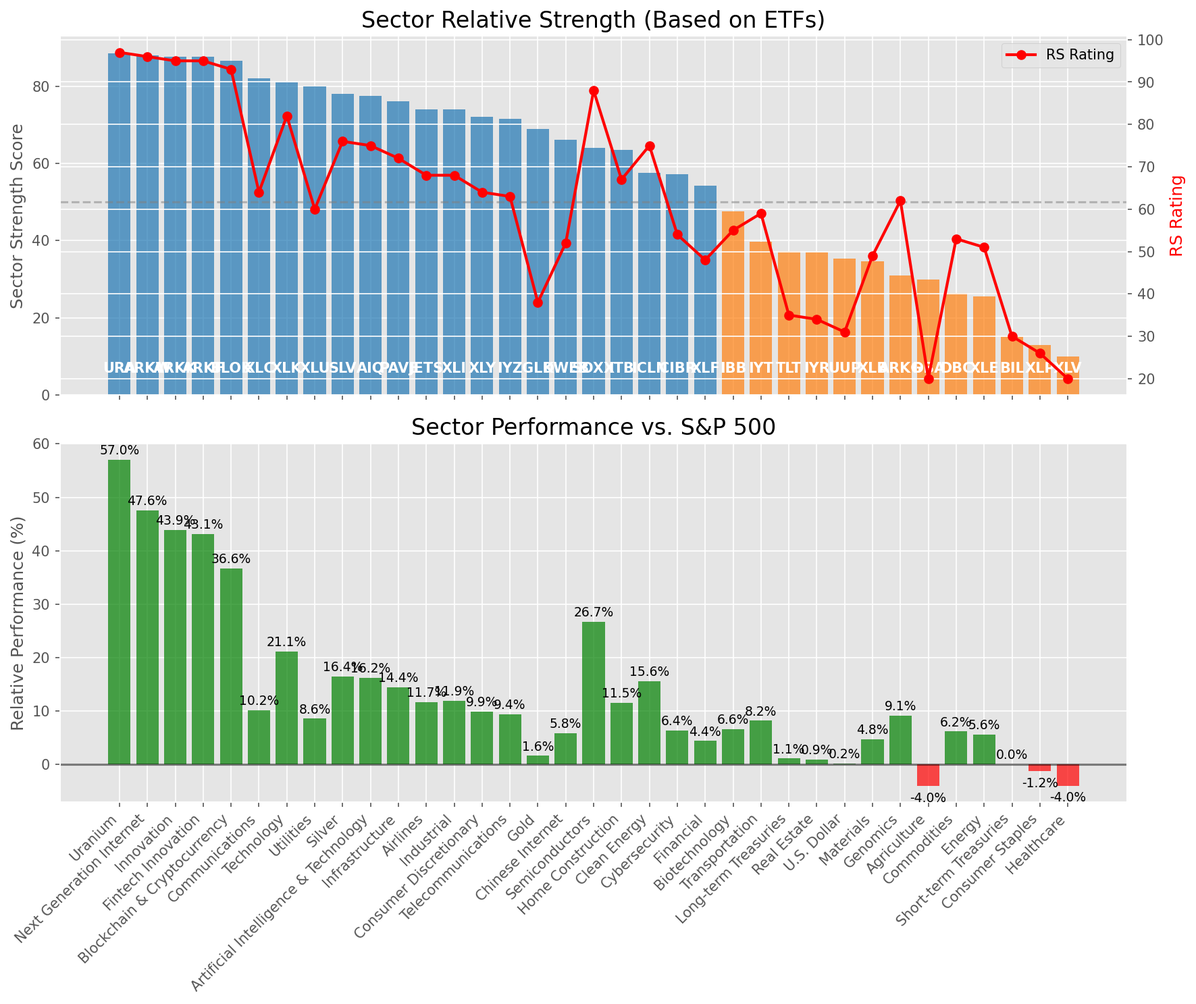
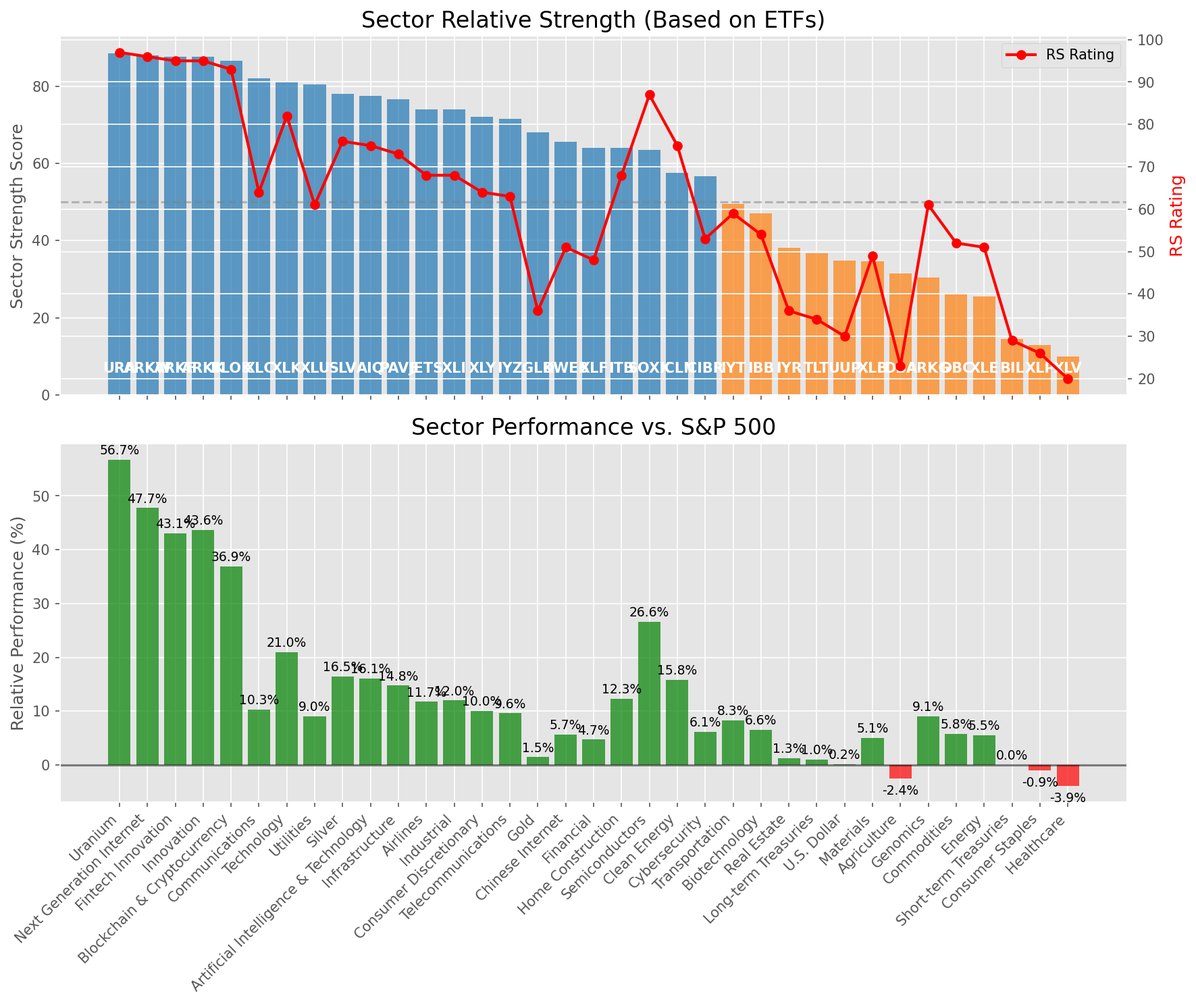
Add market report for 2025-08-05

diff --git a/oneil_relative_strength_report_2025-08-05.md b/oneil_relative_strength_report_2025-08-05.md
@@ -9,11 +9,11 @@
 | Metric | Value |
 |--------|-------|
 | **Market Valuation** | **Overvalued** |
-| **Current Ratio** | 10.20 |
+| **Current Ratio** | 10.21 |
 | **Historical Mean** | 9.60 |
 | **Standard Deviation** | 0.54 |
 | **Z-Score (StdDev from Mean)** | 1.17 |
-| **Total Market Cap** | $309.40 trillion |
+| **Total Market Cap** | $309.72 trillion |
 | **GDP** | $30.33 trillion |
 
 ## **Market Insights**
@@ -49,41 +49,41 @@ Based on William O'Neil's Relative Strength Methodology
 
 | ETF | Strength | RS Rating | Performance | Above Key MAs | Trend | Sector |
 |-----|----------|-----------|-------------|--------------|-------|--------|
-| [URA](https://www.tradingview.com/chart/?symbol=URA) | 88.6 | 97.0 | 57.04% | 10d ✗, 50d ✓, 200d ✓ | ↗ | Uranium |
-| [ARKW](https://www.tradingview.com/chart/?symbol=ARKW) | 88.1 | 96.0 | 47.59% | 10d ✗, 50d ✓, 200d ✓ | ↗ | Next Generation Internet |
-| [ARKK](https://www.tradingview.com/chart/?symbol=ARKK) | 87.6 | 95.0 | 43.89% | 10d ✗, 50d ✓, 200d ✓ | ↗ | Innovation |
-| [ARKF](https://www.tradingview.com/chart/?symbol=ARKF) | 87.6 | 95.0 | 43.08% | 10d ✗, 50d ✓, 200d ✓ | ↗ | Fintech Innovation |
-| [BLOK](https://www.tradingview.com/chart/?symbol=BLOK) | 86.6 | 93.0 | 36.65% | 10d ✗, 50d ✓, 200d ✓ | ↗ | Blockchain & Cryptocurrency |
-| [XLC](https://www.tradingview.com/chart/?symbol=XLC) | 82.0 | 64.0 | 10.17% | 10d ✓, 50d ✓, 200d ✓ | ↗ | Communications |
-| [XLK](https://www.tradingview.com/chart/?symbol=XLK) | 81.1 | 82.0 | 21.09% | 10d ✗, 50d ✓, 200d ✓ | ↗ | Technology |
-| [XLU](https://www.tradingview.com/chart/?symbol=XLU) | 80.0 | 60.0 | 8.55% | 10d ✓, 50d ✓, 200d ✓ | ↗ | Utilities |
-| [SLV](https://www.tradingview.com/chart/?symbol=SLV) | 78.1 | 76.0 | 16.44% | 10d ✗, 50d ✓, 200d ✓ | ↗ | Silver |
-| [AIQ](https://www.tradingview.com/chart/?symbol=AIQ) | 77.6 | 75.0 | 16.19% | 10d ✗, 50d ✓, 200d ✓ | ↗ | Artificial Intelligence & Technology |
-| [PAVE](https://www.tradingview.com/chart/?symbol=PAVE) | 76.1 | 72.0 | 14.41% | 10d ✗, 50d ✓, 200d ✓ | ↗ | Infrastructure |
-| [JETS](https://www.tradingview.com/chart/?symbol=JETS) | 74.1 | 68.0 | 11.67% | 10d ✗, 50d ✓, 200d ✓ | ↗ | Airlines |
-| [XLI](https://www.tradingview.com/chart/?symbol=XLI) | 74.1 | 68.0 | 11.86% | 10d ✗, 50d ✓, 200d ✓ | ↗ | Industrial |
-| [XLY](https://www.tradingview.com/chart/?symbol=XLY) | 72.1 | 64.0 | 9.94% | 10d ✗, 50d ✓, 200d ✓ | ↗ | Consumer Discretionary |
-| [IYZ](https://www.tradingview.com/chart/?symbol=IYZ) | 71.6 | 63.0 | 9.41% | 10d ✗, 50d ✓, 200d ✓ | ↗ | Telecommunications |
-| [GLD](https://www.tradingview.com/chart/?symbol=GLD) | 69.0 | 38.0 | 1.62% | 10d ✓, 50d ✓, 200d ✓ | ↗ | Gold |
-| [KWEB](https://www.tradingview.com/chart/?symbol=KWEB) | 66.1 | 52.0 | 5.84% | 10d ✗, 50d ✓, 200d ✓ | ↗ | Chinese Internet |
-| [SOXX](https://www.tradingview.com/chart/?symbol=SOXX) | 64.1 | 88.0 | 26.72% | 10d ✗, 50d ✓, 200d ✓ | ↘ | Semiconductors |
-| [ITB](https://www.tradingview.com/chart/?symbol=ITB) | 63.5 | 67.0 | 11.54% | 10d ✓, 50d ✓, 200d ✓ | ↘ | Home Construction |
-| [ICLN](https://www.tradingview.com/chart/?symbol=ICLN) | 57.6 | 75.0 | 15.60% | 10d ✗, 50d ✓, 200d ✓ | ↘ | Clean Energy |
-| [CIBR](https://www.tradingview.com/chart/?symbol=CIBR) | 57.2 | 54.0 | 6.35% | 10d ✗, 50d ✗, 200d ✓ | ↗ | Cybersecurity |
-| [XLF](https://www.tradingview.com/chart/?symbol=XLF) | 54.2 | 48.0 | 4.40% | 10d ✗, 50d ✗, 200d ✓ | ↗ | Financial |
-| [IBB](https://www.tradingview.com/chart/?symbol=IBB) | 47.6 | 55.0 | 6.59% | 10d ✗, 50d ✓, 200d ✓ | ↘ | Biotechnology |
-| [IYT](https://www.tradingview.com/chart/?symbol=IYT) | 39.7 | 59.0 | 8.18% | 10d ✗, 50d ✗, 200d ✓ | ↘ | Transportation |
-| [TLT](https://www.tradingview.com/chart/?symbol=TLT) | 37.3 | 35.0 | 1.10% | 10d ✓, 50d ✓, 200d ✗ | ↘ | Long-term Treasuries |
-| [IYR](https://www.tradingview.com/chart/?symbol=IYR) | 37.1 | 34.0 | 0.87% | 10d ✗, 50d ✓, 200d ✓ | ↘ | Real Estate |
-| [UUP](https://www.tradingview.com/chart/?symbol=UUP) | 35.3 | 31.0 | 0.18% | 10d ✓, 50d ✓, 200d ✗ | ↘ | U.S. Dollar |
-| [XLB](https://www.tradingview.com/chart/?symbol=XLB) | 34.7 | 49.0 | 4.76% | 10d ✗, 50d ✗, 200d ✓ | ↘ | Materials |
-| [ARKG](https://www.tradingview.com/chart/?symbol=ARKG) | 31.0 | 62.0 | 9.12% | 10d ✗, 50d ✗, 200d ✗ | ↘ | Genomics |
-| [DBA](https://www.tradingview.com/chart/?symbol=DBA) | 30.0 | 20.0 | -4.03% | 10d ✗, 50d ✗, 200d ✗ | ↗ | Agriculture |
-| [DBC](https://www.tradingview.com/chart/?symbol=DBC) | 26.5 | 53.0 | 6.15% | 10d ✗, 50d ✗, 200d ✗ | ↘ | Commodities |
-| [XLE](https://www.tradingview.com/chart/?symbol=XLE) | 25.5 | 51.0 | 5.56% | 10d ✗, 50d ✗, 200d ✗ | ↘ | Energy |
-| [BIL](https://www.tradingview.com/chart/?symbol=BIL) | 15.0 | 30.0 | 0.03% | 10d ✗, 50d ✗, 200d ✗ | ↘ | Short-term Treasuries |
-| [XLP](https://www.tradingview.com/chart/?symbol=XLP) | 13.0 | 26.0 | -1.21% | 10d ✗, 50d ✗, 200d ✗ | ↘ | Consumer Staples |
-| [XLV](https://www.tradingview.com/chart/?symbol=XLV) | 10.0 | 20.0 | -3.98% | 10d ✗, 50d ✗, 200d ✗ | ↘ | Healthcare |
+| [URA](https://www.tradingview.com/chart/?symbol=URA) | 88.6 | 97.0 | 56.73% | 10d ✗, 50d ✓, 200d ✓ | ↗ | Uranium |
+| [ARKW](https://www.tradingview.com/chart/?symbol=ARKW) | 88.1 | 96.0 | 47.74% | 10d ✗, 50d ✓, 200d ✓ | ↗ | Next Generation Internet |
+| [ARKF](https://www.tradingview.com/chart/?symbol=ARKF) | 87.6 | 95.0 | 43.06% | 10d ✗, 50d ✓, 200d ✓ | ↗ | Fintech Innovation |
+| [ARKK](https://www.tradingview.com/chart/?symbol=ARKK) | 87.6 | 95.0 | 43.64% | 10d ✗, 50d ✓, 200d ✓ | ↗ | Innovation |
+| [BLOK](https://www.tradingview.com/chart/?symbol=BLOK) | 86.6 | 93.0 | 36.89% | 10d ✗, 50d ✓, 200d ✓ | ↗ | Blockchain & Cryptocurrency |
+| [XLC](https://www.tradingview.com/chart/?symbol=XLC) | 82.0 | 64.0 | 10.32% | 10d ✓, 50d ✓, 200d ✓ | ↗ | Communications |
+| [XLK](https://www.tradingview.com/chart/?symbol=XLK) | 81.1 | 82.0 | 21.01% | 10d ✗, 50d ✓, 200d ✓ | ↗ | Technology |
+| [XLU](https://www.tradingview.com/chart/?symbol=XLU) | 80.5 | 61.0 | 8.99% | 10d ✓, 50d ✓, 200d ✓ | ↗ | Utilities |
+| [SLV](https://www.tradingview.com/chart/?symbol=SLV) | 78.1 | 76.0 | 16.45% | 10d ✗, 50d ✓, 200d ✓ | ↗ | Silver |
+| [AIQ](https://www.tradingview.com/chart/?symbol=AIQ) | 77.6 | 75.0 | 16.12% | 10d ✗, 50d ✓, 200d ✓ | ↗ | Artificial Intelligence & Technology |
+| [PAVE](https://www.tradingview.com/chart/?symbol=PAVE) | 76.6 | 73.0 | 14.75% | 10d ✗, 50d ✓, 200d ✓ | ↗ | Infrastructure |
+| [JETS](https://www.tradingview.com/chart/?symbol=JETS) | 74.1 | 68.0 | 11.74% | 10d ✗, 50d ✓, 200d ✓ | ↗ | Airlines |
+| [XLI](https://www.tradingview.com/chart/?symbol=XLI) | 74.1 | 68.0 | 12.00% | 10d ✗, 50d ✓, 200d ✓ | ↗ | Industrial |
+| [XLY](https://www.tradingview.com/chart/?symbol=XLY) | 72.1 | 64.0 | 10.03% | 10d ✗, 50d ✓, 200d ✓ | ↗ | Consumer Discretionary |
+| [IYZ](https://www.tradingview.com/chart/?symbol=IYZ) | 71.6 | 63.0 | 9.62% | 10d ✗, 50d ✓, 200d ✓ | ↗ | Telecommunications |
+| [GLD](https://www.tradingview.com/chart/?symbol=GLD) | 68.0 | 36.0 | 1.46% | 10d ✓, 50d ✓, 200d ✓ | ↗ | Gold |
+| [KWEB](https://www.tradingview.com/chart/?symbol=KWEB) | 65.6 | 51.0 | 5.66% | 10d ✗, 50d ✓, 200d ✓ | ↗ | Chinese Internet |
+| [XLF](https://www.tradingview.com/chart/?symbol=XLF) | 64.1 | 48.0 | 4.72% | 10d ✗, 50d ✓, 200d ✓ | ↗ | Financial |
+| [ITB](https://www.tradingview.com/chart/?symbol=ITB) | 64.0 | 68.0 | 12.28% | 10d ✓, 50d ✓, 200d ✓ | ↘ | Home Construction |
+| [SOXX](https://www.tradingview.com/chart/?symbol=SOXX) | 63.6 | 87.0 | 26.57% | 10d ✗, 50d ✓, 200d ✓ | ↘ | Semiconductors |
+| [ICLN](https://www.tradingview.com/chart/?symbol=ICLN) | 57.6 | 75.0 | 15.82% | 10d ✗, 50d ✓, 200d ✓ | ↘ | Clean Energy |
+| [CIBR](https://www.tradingview.com/chart/?symbol=CIBR) | 56.7 | 53.0 | 6.13% | 10d ✗, 50d ✗, 200d ✓ | ↗ | Cybersecurity |
+| [IYT](https://www.tradingview.com/chart/?symbol=IYT) | 49.6 | 59.0 | 8.34% | 10d ✗, 50d ✓, 200d ✓ | ↘ | Transportation |
+| [IBB](https://www.tradingview.com/chart/?symbol=IBB) | 47.1 | 54.0 | 6.57% | 10d ✗, 50d ✓, 200d ✓ | ↘ | Biotechnology |
+| [IYR](https://www.tradingview.com/chart/?symbol=IYR) | 38.1 | 36.0 | 1.32% | 10d ✗, 50d ✓, 200d ✓ | ↘ | Real Estate |
+| [TLT](https://www.tradingview.com/chart/?symbol=TLT) | 36.8 | 34.0 | 1.05% | 10d ✓, 50d ✓, 200d ✗ | ↘ | Long-term Treasuries |
+| [UUP](https://www.tradingview.com/chart/?symbol=UUP) | 34.8 | 30.0 | 0.19% | 10d ✓, 50d ✓, 200d ✗ | ↘ | U.S. Dollar |
+| [XLB](https://www.tradingview.com/chart/?symbol=XLB) | 34.7 | 49.0 | 5.09% | 10d ✗, 50d ✗, 200d ✓ | ↘ | Materials |
+| [DBA](https://www.tradingview.com/chart/?symbol=DBA) | 31.5 | 23.0 | -2.44% | 10d ✗, 50d ✗, 200d ✗ | ↗ | Agriculture |
+| [ARKG](https://www.tradingview.com/chart/?symbol=ARKG) | 30.5 | 61.0 | 9.08% | 10d ✗, 50d ✗, 200d ✗ | ↘ | Genomics |
+| [DBC](https://www.tradingview.com/chart/?symbol=DBC) | 26.0 | 52.0 | 5.84% | 10d ✗, 50d ✗, 200d ✗ | ↘ | Commodities |
+| [XLE](https://www.tradingview.com/chart/?symbol=XLE) | 25.5 | 51.0 | 5.49% | 10d ✗, 50d ✗, 200d ✗ | ↘ | Energy |
+| [BIL](https://www.tradingview.com/chart/?symbol=BIL) | 14.5 | 29.0 | 0.03% | 10d ✗, 50d ✗, 200d ✗ | ↘ | Short-term Treasuries |
+| [XLP](https://www.tradingview.com/chart/?symbol=XLP) | 13.0 | 26.0 | -0.94% | 10d ✗, 50d ✗, 200d ✗ | ↘ | Consumer Staples |
+| [XLV](https://www.tradingview.com/chart/?symbol=XLV) | 10.0 | 20.0 | -3.88% | 10d ✗, 50d ✗, 200d ✗ | ↘ | Healthcare |
 
 ### **Sector ETF Performance Interpretation**
 
@@ -98,9 +98,9 @@ This table shows the relative strength metrics for different market sectors base
 
 ### **Current Sector Leadership**
 
-The current market leadership is coming from the following sectors: **Uranium, Next Generation Internet, Innovation**.
+The current market leadership is coming from the following sectors: **Uranium, Next Generation Internet, Fintech Innovation**.
 
-The **Uranium** sector (represented by **URA**) is showing particularly strong relative strength with an RS rating of 97.0 and performance of 57.04% vs. the S&P 500. This sector is trading above its 50-day, 200-day moving average(s). Investors should consider focusing on high RS stocks within these leading sectors for potential outperformance.
+The **Uranium** sector (represented by **URA**) is showing particularly strong relative strength with an RS rating of 97.0 and performance of 56.73% vs. the S&P 500. This sector is trading above its 50-day, 200-day moving average(s). Investors should consider focusing on high RS stocks within these leading sectors for potential outperformance.
 
 ---
 
@@ -110,128 +110,125 @@ The following 54 stocks show exceptional relative strength:
 
 | RS Rating | Buy Score | Current Price | Chart | Name | Ticker |
 |-----------|-----------|---------------|-------|------|--------|
-| 100 | 100 | $193.89 | [Chart](https://www.tradingview.com/chart/?symbol=CLS) | Celestica, Inc. | CLS |
-| 100 | 100 | $150.01 | [Chart](https://www.tradingview.com/chart/?symbol=SEZL) | Sezzle Inc. Common Stock | SEZL |
-| 100 | 100 | $110.24 | [Chart](https://www.tradingview.com/chart/?symbol=CRDO) | Credo Technology Group Holding Ltd Ordinary Shares | CRDO |
-| 100 | 100 | $66.72 | [Chart](https://www.tradingview.com/chart/?symbol=MP) | MP Materials Corp. | MP |
-| 100 | 100 | $104.16 | [Chart](https://www.tradingview.com/chart/?symbol=HOOD) | Robinhood Markets, Inc. Class A Common Stock | HOOD |
-| 100 | 100 | $239.25 | [Chart](https://www.tradingview.com/chart/?symbol=DAVE) | Dave Inc. Class A Common Stock | DAVE |
-| 99 | 100 | $76.06 | [Chart](https://www.tradingview.com/chart/?symbol=LIF) | Life360, Inc. Common Stock | LIF |
-| 99 | 100 | $381.77 | [Chart](https://www.tradingview.com/chart/?symbol=TLN) | Talen Energy Corporation Common Stock | TLN |
-| 99 | 100 | $128.12 | [Chart](https://www.tradingview.com/chart/?symbol=RBLX) | Roblox Corporation | RBLX |
-| 98 | 100 | $206.51 | [Chart](https://www.tradingview.com/chart/?symbol=NET) | Cloudflare, Inc. Class A common stock, par value $0.001 per share | NET |
-| 98 | 100 | $37.66 | [Chart](https://www.tradingview.com/chart/?symbol=NNE) | Nano Nuclear Energy Inc. Common Stock | NNE |
-| 98 | 100 | $651.90 | [Chart](https://www.tradingview.com/chart/?symbol=GEV) | GE Vernova Inc. | GEV |
-| 98 | 100 | $58.90 | [Chart](https://www.tradingview.com/chart/?symbol=KTOS) | Kratos Defense & Security Solutions, Inc. | KTOS |
-| 97 | 100 | $183.92 | [Chart](https://www.tradingview.com/chart/?symbol=COOP) | Mr. Cooper Group Inc. Common Stock | COOP |
-| 96 | 100 | $110.96 | [Chart](https://www.tradingview.com/chart/?symbol=TPR) | Tapestry, Inc. Common Stock | TPR |
-| 96 | 100 | $115.51 | [Chart](https://www.tradingview.com/chart/?symbol=SANM) | Sanmina  Corp | SANM |
-| 96 | 100 | $35.19 | [Chart](https://www.tradingview.com/chart/?symbol=ATRO) | Astronics Corp | ATRO |
-| 95 | 100 | $21.40 | [Chart](https://www.tradingview.com/chart/?symbol=MAG) | MAG Silver Corp. | MAG |
-| 95 | 100 | $105.30 | [Chart](https://www.tradingview.com/chart/?symbol=VRNA) | Verona Pharma plc | VRNA |
-| 95 | 100 | $169.39 | [Chart](https://www.tradingview.com/chart/?symbol=NRG) | NRG Energy, Inc. | NRG |
-| 94 | 100 | $510.88 | [Chart](https://www.tradingview.com/chart/?symbol=CW) | Curtiss-Wright Corp. | CW |
-| 93 | 100 | $88.89 | [Chart](https://www.tradingview.com/chart/?symbol=RYTM) | Rhythm Pharmaceuticals, Inc. Common Stock | RYTM |
-| 93 | 100 | $48.66 | [Chart](https://www.tradingview.com/chart/?symbol=REVG) | REV Group, Inc. | REVG |
-| 93 | 100 | $171.68 | [Chart](https://www.tradingview.com/chart/?symbol=PLTR) | Palantir Technologies Inc. Class A Common Stock | PLTR |
-| 93 | 100 | $851.08 | [Chart](https://www.tradingview.com/chart/?symbol=AXON) | Axon Enterprise, Inc. Common Stock | AXON |
-| 92 | 100 | $108.25 | [Chart](https://www.tradingview.com/chart/?symbol=APH) | Amphenol Corporation | APH |
-| 92 | 100 | $350.71 | [Chart](https://www.tradingview.com/chart/?symbol=CVNA) | Carvana Co. | CVNA |
-| 91 | 100 | $55.94 | [Chart](https://www.tradingview.com/chart/?symbol=AU) | AngloGold Ashanti plc | AU |
-| 91 | 100 | $42.97 | [Chart](https://www.tradingview.com/chart/?symbol=LTM) | LATAM Airlines Group S.A. American Depositary Shares (each representing two thousand (2,000) shares of Common Stock) | LTM |
-| 90 | 100 | $83.83 | [Chart](https://www.tradingview.com/chart/?symbol=GDXU) | MicroSectors Gold Miners 3x Leveraged ETN | GDXU |
-| 90 | 100 | $91.63 | [Chart](https://www.tradingview.com/chart/?symbol=EBAY) | eBay Inc | EBAY |
-| 88 | 100 | $55.90 | [Chart](https://www.tradingview.com/chart/?symbol=BTI) | British American Tobacco p.l.c. American Depositary Shares, American Depositary Shares, each representing one Ordinary Share | BTI |
-| 88 | 100 | $156.92 | [Chart](https://www.tradingview.com/chart/?symbol=VSEC) | VSE Corp | VSEC |
-| 89 | 99 | $52.45 | [Chart](https://www.tradingview.com/chart/?symbol=PTCT) | PTC Therapeutics, Inc. | PTCT |
-| 88 | 99 | $39.44 | [Chart](https://www.tradingview.com/chart/?symbol=ZLAB) | Zai Lab Limited American Depositary Shares | ZLAB |
-| 87 | 99 | $48.03 | [Chart](https://www.tradingview.com/chart/?symbol=BBIO) | BridgeBio Pharma, Inc. Common Stock | BBIO |
-| 86 | 99 | $33.69 | [Chart](https://www.tradingview.com/chart/?symbol=DB) | Deutsche Bank Aktiengesellschaft | DB |
-| 88 | 98 | $384.94 | [Chart](https://www.tradingview.com/chart/?symbol=APP) | Applovin Corporation Class A Common Stock | APP |
-| 88 | 98 | $50.51 | [Chart](https://www.tradingview.com/chart/?symbol=SIL) | Global X Silver Miners ETF (NEW) | SIL |
+| 100 | 100 | $67.14 | [Chart](https://www.tradingview.com/chart/?symbol=MP) | MP Materials Corp. | MP |
+| 100 | 100 | $195.29 | [Chart](https://www.tradingview.com/chart/?symbol=CLS) | Celestica, Inc. | CLS |
+| 100 | 100 | $239.14 | [Chart](https://www.tradingview.com/chart/?symbol=DAVE) | Dave Inc. Class A Common Stock | DAVE |
+| 100 | 100 | $148.74 | [Chart](https://www.tradingview.com/chart/?symbol=SEZL) | Sezzle Inc. Common Stock | SEZL |
+| 100 | 100 | $110.08 | [Chart](https://www.tradingview.com/chart/?symbol=CRDO) | Credo Technology Group Holding Ltd Ordinary Shares | CRDO |
+| 99 | 100 | $381.64 | [Chart](https://www.tradingview.com/chart/?symbol=TLN) | Talen Energy Corporation Common Stock | TLN |
+| 99 | 100 | $126.61 | [Chart](https://www.tradingview.com/chart/?symbol=RBLX) | Roblox Corporation | RBLX |
+| 98 | 100 | $58.75 | [Chart](https://www.tradingview.com/chart/?symbol=KTOS) | Kratos Defense & Security Solutions, Inc. | KTOS |
+| 98 | 100 | $205.72 | [Chart](https://www.tradingview.com/chart/?symbol=NET) | Cloudflare, Inc. Class A common stock, par value $0.001 per share | NET |
+| 98 | 100 | $650.69 | [Chart](https://www.tradingview.com/chart/?symbol=GEV) | GE Vernova Inc. | GEV |
+| 98 | 100 | $37.91 | [Chart](https://www.tradingview.com/chart/?symbol=NNE) | Nano Nuclear Energy Inc. Common Stock | NNE |
+| 97 | 100 | $185.96 | [Chart](https://www.tradingview.com/chart/?symbol=COOP) | Mr. Cooper Group Inc. Common Stock | COOP |
+| 97 | 100 | $111.35 | [Chart](https://www.tradingview.com/chart/?symbol=TPR) | Tapestry, Inc. Common Stock | TPR |
+| 97 | 100 | $157.21 | [Chart](https://www.tradingview.com/chart/?symbol=FUTU) | Futu Holdings Limited American Depositary Shares | FUTU |
+| 96 | 100 | $35.41 | [Chart](https://www.tradingview.com/chart/?symbol=ATRO) | Astronics Corp | ATRO |
+| 96 | 100 | $116.02 | [Chart](https://www.tradingview.com/chart/?symbol=SANM) | Sanmina  Corp | SANM |
+| 96 | 100 | $171.06 | [Chart](https://www.tradingview.com/chart/?symbol=NRG) | NRG Energy, Inc. | NRG |
+| 95 | 100 | $105.34 | [Chart](https://www.tradingview.com/chart/?symbol=VRNA) | Verona Pharma plc | VRNA |
+| 95 | 100 | $21.54 | [Chart](https://www.tradingview.com/chart/?symbol=MAG) | MAG Silver Corp. | MAG |
+| 94 | 100 | $90.08 | [Chart](https://www.tradingview.com/chart/?symbol=RYTM) | Rhythm Pharmaceuticals, Inc. Common Stock | RYTM |
+| 94 | 100 | $512.63 | [Chart](https://www.tradingview.com/chart/?symbol=CW) | Curtiss-Wright Corp. | CW |
+| 93 | 100 | $49.15 | [Chart](https://www.tradingview.com/chart/?symbol=REVG) | REV Group, Inc. | REVG |
+| 93 | 100 | $862.12 | [Chart](https://www.tradingview.com/chart/?symbol=AXON) | Axon Enterprise, Inc. Common Stock | AXON |
+| 93 | 100 | $171.46 | [Chart](https://www.tradingview.com/chart/?symbol=PLTR) | Palantir Technologies Inc. Class A Common Stock | PLTR |
+| 92 | 100 | $108.01 | [Chart](https://www.tradingview.com/chart/?symbol=APH) | Amphenol Corporation | APH |
+| 92 | 100 | $48.46 | [Chart](https://www.tradingview.com/chart/?symbol=TOST) | Toast, Inc. | TOST |
+| 92 | 100 | $56.62 | [Chart](https://www.tradingview.com/chart/?symbol=AU) | AngloGold Ashanti plc | AU |
+| 92 | 100 | $347.77 | [Chart](https://www.tradingview.com/chart/?symbol=CVNA) | Carvana Co. | CVNA |
+| 92 | 100 | $43.36 | [Chart](https://www.tradingview.com/chart/?symbol=LTM) | LATAM Airlines Group S.A. American Depositary Shares (each representing two thousand (2,000) shares of Common Stock) | LTM |
+| 91 | 100 | $84.62 | [Chart](https://www.tradingview.com/chart/?symbol=GDXU) | MicroSectors Gold Miners 3x Leveraged ETN | GDXU |
+| 90 | 100 | $91.64 | [Chart](https://www.tradingview.com/chart/?symbol=EBAY) | eBay Inc | EBAY |
+| 88 | 100 | $55.95 | [Chart](https://www.tradingview.com/chart/?symbol=BTI) | British American Tobacco p.l.c. American Depositary Shares, American Depositary Shares, each representing one Ordinary Share | BTI |
+| 88 | 100 | $156.29 | [Chart](https://www.tradingview.com/chart/?symbol=VSEC) | VSE Corp | VSEC |
+| 88 | 99 | $39.47 | [Chart](https://www.tradingview.com/chart/?symbol=ZLAB) | Zai Lab Limited American Depositary Shares | ZLAB |
+| 87 | 99 | $48.26 | [Chart](https://www.tradingview.com/chart/?symbol=BBIO) | BridgeBio Pharma, Inc. Common Stock | BBIO |
+| 86 | 99 | $33.81 | [Chart](https://www.tradingview.com/chart/?symbol=DB) | Deutsche Bank Aktiengesellschaft | DB |
+| 88 | 98 | $50.66 | [Chart](https://www.tradingview.com/chart/?symbol=SIL) | Global X Silver Miners ETF (NEW) | SIL |
+| 88 | 98 | $51.75 | [Chart](https://www.tradingview.com/chart/?symbol=PTCT) | PTC Therapeutics, Inc. | PTCT |
 | 87 | 97 | $261.65 | [Chart](https://www.tradingview.com/chart/?symbol=WTS) | Watts Water Technologies, Inc. Class A | WTS |
+| 87 | 97 | $380.73 | [Chart](https://www.tradingview.com/chart/?symbol=APP) | Applovin Corporation Class A Common Stock | APP |
 | 87 | 97 | $189.58 | [Chart](https://www.tradingview.com/chart/?symbol=AWI) | Armstrong World Industries, Inc. | AWI |
-| 85 | 97 | $29.20 | [Chart](https://www.tradingview.com/chart/?symbol=OR) | OR Royalties Inc. | OR |
-| 84 | 97 | $57.17 | [Chart](https://www.tradingview.com/chart/?symbol=ERJ) | Embraer S.A. | ERJ |
-| 84 | 97 | $39.78 | [Chart](https://www.tradingview.com/chart/?symbol=AHR) | American Healthcare REIT, Inc. | AHR |
-| 84 | 95 | $146.88 | [Chart](https://www.tradingview.com/chart/?symbol=PPA) | Invesco Aerospace & Defense ETF | PPA |
-| 82 | 95 | $90.12 | [Chart](https://www.tradingview.com/chart/?symbol=RBRK) | Rubrik, Inc. | RBRK |
-| 84 | 94 | $95.90 | [Chart](https://www.tradingview.com/chart/?symbol=NDAQ) | Nasdaq, Inc. Common Stock | NDAQ |
-| 84 | 94 | $50.96 | [Chart](https://www.tradingview.com/chart/?symbol=FHI) | Federated Hermes, Inc. | FHI |
-| 83 | 93 | $19.62 | [Chart](https://www.tradingview.com/chart/?symbol=LQDA) | Liquidia Corporation Common Stock | LQDA |
+| 85 | 97 | $29.21 | [Chart](https://www.tradingview.com/chart/?symbol=OR) | OR Royalties Inc. | OR |
+| 85 | 97 | $80.59 | [Chart](https://www.tradingview.com/chart/?symbol=TPB) | Turning Point Brands, Inc. | TPB |
+| 84 | 97 | $57.35 | [Chart](https://www.tradingview.com/chart/?symbol=ERJ) | Embraer S.A. | ERJ |
+| 84 | 97 | $39.85 | [Chart](https://www.tradingview.com/chart/?symbol=AHR) | American Healthcare REIT, Inc. | AHR |
+| 84 | 96 | $100.96 | [Chart](https://www.tradingview.com/chart/?symbol=BK) | Bank of New York Mellon Corporation | BK |
+| 84 | 95 | $147.01 | [Chart](https://www.tradingview.com/chart/?symbol=PPA) | Invesco Aerospace & Defense ETF | PPA |
+| 84 | 94 | $96.03 | [Chart](https://www.tradingview.com/chart/?symbol=NDAQ) | Nasdaq, Inc. Common Stock | NDAQ |
+| 84 | 94 | $51.04 | [Chart](https://www.tradingview.com/chart/?symbol=FHI) | Federated Hermes, Inc. | FHI |
+| 84 | 94 | $19.84 | [Chart](https://www.tradingview.com/chart/?symbol=LQDA) | Liquidia Corporation Common Stock | LQDA |
+| 82 | 93 | $28.99 | [Chart](https://www.tradingview.com/chart/?symbol=PAAS) | Pan American Silver Corp. | PAAS |
 | 82 | 92 | $113.40 | [Chart](https://www.tradingview.com/chart/?symbol=SXT) | Sensient Technology Corporation | SXT |
 | 81 | 92 | $62.68 | [Chart](https://www.tradingview.com/chart/?symbol=WOR) | Worthington Enterprises, Inc. | WOR |
-| 81 | 92 | $242.45 | [Chart](https://www.tradingview.com/chart/?symbol=BAP) | Credicorp LTD | BAP |
-| 81 | 92 | $28.78 | [Chart](https://www.tradingview.com/chart/?symbol=PAAS) | Pan American Silver Corp. | PAAS |
-| 80 | 92 | $320.15 | [Chart](https://www.tradingview.com/chart/?symbol=FFIV) | F5, Inc. Common Stock | FFIV |
+| 81 | 92 | $241.69 | [Chart](https://www.tradingview.com/chart/?symbol=BAP) | Credicorp LTD | BAP |
 
 ---
 
 
 ## **Sell Recommendations**
 
-The following 58 stocks show deteriorating relative strength:
+The following 55 stocks show deteriorating relative strength:
 
 | RS Rating | Sell Score | Current Price | Chart | Name | Ticker |
 |-----------|------------|---------------|-------|------|--------|
-| 1 | 100 | $12.00 | [Chart](https://www.tradingview.com/chart/?symbol=NVDS) | Investment Managers Series Trust II Tradr 1.5X Short NVDA Daily ETF | NVDS |
-| 1 | 100 | $16.81 | [Chart](https://www.tradingview.com/chart/?symbol=GPCR) | Structure Therapeutics Inc. American Depositary Shares | GPCR |
-| 2 | 100 | $23.48 | [Chart](https://www.tradingview.com/chart/?symbol=ZSL) | ProShares UltraShort Silver | ZSL |
-| 2 | 100 | $13.72 | [Chart](https://www.tradingview.com/chart/?symbol=CLBT) | Cellebrite DI Ltd. Class A Ordinary Shares | CLBT |
-| 2 | 100 | $73.15 | [Chart](https://www.tradingview.com/chart/?symbol=LNTH) | Lantheus Holdings, Inc | LNTH |
-| 2 | 100 | $16.48 | [Chart](https://www.tradingview.com/chart/?symbol=DJT) | Trump Media & Technology Group Corp. Common Stock | DJT |
-| 6 | 100 | $117.16 | [Chart](https://www.tradingview.com/chart/?symbol=RGEN) | Repligen Corp | RGEN |
-| 6 | 100 | $12.77 | [Chart](https://www.tradingview.com/chart/?symbol=CDNA) | CareDx, Inc. | CDNA |
+| 1 | 100 | $16.82 | [Chart](https://www.tradingview.com/chart/?symbol=GPCR) | Structure Therapeutics Inc. American Depositary Shares | GPCR |
+| 1 | 100 | $12.03 | [Chart](https://www.tradingview.com/chart/?symbol=NVDS) | Investment Managers Series Trust II Tradr 1.5X Short NVDA Daily ETF | NVDS |
+| 2 | 100 | $16.39 | [Chart](https://www.tradingview.com/chart/?symbol=DJT) | Trump Media & Technology Group Corp. Common Stock | DJT |
+| 2 | 100 | $13.71 | [Chart](https://www.tradingview.com/chart/?symbol=CLBT) | Cellebrite DI Ltd. Class A Ordinary Shares | CLBT |
+| 2 | 100 | $23.46 | [Chart](https://www.tradingview.com/chart/?symbol=ZSL) | ProShares UltraShort Silver | ZSL |
 | 6 | 100 | $10.37 | [Chart](https://www.tradingview.com/chart/?symbol=OEC) | Orion S.A. | OEC |
-| 6 | 100 | $25.56 | [Chart](https://www.tradingview.com/chart/?symbol=TBBB) | BBB Foods Inc. | TBBB |
-| 7 | 100 | $21.52 | [Chart](https://www.tradingview.com/chart/?symbol=AMPH) | Amphastar Pharmaceuticals, Inc. | AMPH |
-| 8 | 100 | $35.95 | [Chart](https://www.tradingview.com/chart/?symbol=LZB) | La-Z-Boy Incorporated | LZB |
+| 6 | 100 | $116.59 | [Chart](https://www.tradingview.com/chart/?symbol=RGEN) | Repligen Corp | RGEN |
+| 6 | 100 | $25.47 | [Chart](https://www.tradingview.com/chart/?symbol=TBBB) | BBB Foods Inc. | TBBB |
+| 7 | 100 | $21.50 | [Chart](https://www.tradingview.com/chart/?symbol=AMPH) | Amphastar Pharmaceuticals, Inc. | AMPH |
+| 7 | 100 | $13.02 | [Chart](https://www.tradingview.com/chart/?symbol=CDNA) | CareDx, Inc. | CDNA |
 | 8 | 100 | $20.95 | [Chart](https://www.tradingview.com/chart/?symbol=AMRK) | A-Mark Precious Metals, Inc. | AMRK |
-| 14 | 100 | $53.45 | [Chart](https://www.tradingview.com/chart/?symbol=AMWD) | American Woodmark Corp | AMWD |
-| 5 | 99 | $41.66 | [Chart](https://www.tradingview.com/chart/?symbol=SDOW) | ProShares UltraPro Short Dow 30 | SDOW |
-| 6 | 98 | $13.74 | [Chart](https://www.tradingview.com/chart/?symbol=EWTX) | Edgewise Therapeutics, Inc. Common Stock | EWTX |
-| 7 | 98 | $20.57 | [Chart](https://www.tradingview.com/chart/?symbol=BLFS) | BioLife Solutions Inc. | BLFS |
-| 7 | 98 | $19.44 | [Chart](https://www.tradingview.com/chart/?symbol=GAP) | The Gap, Inc. | GAP |
+| 8 | 100 | $35.95 | [Chart](https://www.tradingview.com/chart/?symbol=LZB) | La-Z-Boy Incorporated | LZB |
+| 10 | 100 | $54.94 | [Chart](https://www.tradingview.com/chart/?symbol=HRB) | H&R Block, Inc. | HRB |
+| 13 | 100 | $53.45 | [Chart](https://www.tradingview.com/chart/?symbol=AMWD) | American Woodmark Corp | AMWD |
+| 5 | 99 | $41.42 | [Chart](https://www.tradingview.com/chart/?symbol=SDOW) | ProShares UltraPro Short Dow 30 | SDOW |
+| 6 | 98 | $13.66 | [Chart](https://www.tradingview.com/chart/?symbol=EWTX) | Edgewise Therapeutics, Inc. Common Stock | EWTX |
+| 7 | 98 | $19.48 | [Chart](https://www.tradingview.com/chart/?symbol=GAP) | The Gap, Inc. | GAP |
 | 9 | 98 | $22.54 | [Chart](https://www.tradingview.com/chart/?symbol=ERY) | Direxion Daily Energy Bear 2X Shares | ERY |
-| 13 | 98 | $15.39 | [Chart](https://www.tradingview.com/chart/?symbol=FIHL) | Fidelis Insurance Holdings Limited | FIHL |
-| 10 | 96 | $12.71 | [Chart](https://www.tradingview.com/chart/?symbol=BSM) | Black Stone Minerals, L.P. | BSM |
-| 13 | 96 | $19.47 | [Chart](https://www.tradingview.com/chart/?symbol=AVBP) | ArriVent BioPharma, Inc. Common Stock | AVBP |
+| 7 | 97 | $20.67 | [Chart](https://www.tradingview.com/chart/?symbol=BLFS) | BioLife Solutions Inc. | BLFS |
+| 12 | 97 | $19.43 | [Chart](https://www.tradingview.com/chart/?symbol=AVBP) | ArriVent BioPharma, Inc. Common Stock | AVBP |
+| 10 | 96 | $12.74 | [Chart](https://www.tradingview.com/chart/?symbol=BSM) | Black Stone Minerals, L.P. | BSM |
+| 12 | 96 | $49.42 | [Chart](https://www.tradingview.com/chart/?symbol=PRCT) | PROCEPT BioRobotics Corporation Common Stock | PRCT |
+| 14 | 96 | $15.53 | [Chart](https://www.tradingview.com/chart/?symbol=FIHL) | Fidelis Insurance Holdings Limited | FIHL |
 | 9 | 95 | $15.07 | [Chart](https://www.tradingview.com/chart/?symbol=PLSE) | Pulse Biosciences, Inc Common Stock (DE) | PLSE |
 | 13 | 95 | $16.66 | [Chart](https://www.tradingview.com/chart/?symbol=CTO) | CTO Realty Growth, Inc. | CTO |
-| 13 | 95 | $49.65 | [Chart](https://www.tradingview.com/chart/?symbol=PRCT) | PROCEPT BioRobotics Corporation Common Stock | PRCT |
-| 11 | 94 | $39.26 | [Chart](https://www.tradingview.com/chart/?symbol=SH) | ProShares Short S&P500 | SH |
-| 18 | 94 | $22.14 | [Chart](https://www.tradingview.com/chart/?symbol=CURB) | Curbline Properties Corp. | CURB |
-| 8 | 93 | $24.36 | [Chart](https://www.tradingview.com/chart/?symbol=DXD) | ProShares UltraShort Dow 30 | DXD |
+| 11 | 93 | $39.24 | [Chart](https://www.tradingview.com/chart/?symbol=SH) | ProShares Short S&P500 | SH |
 | 15 | 92 | $13.24 | [Chart](https://www.tradingview.com/chart/?symbol=GOOD) | Gladstone Commercial Corporation - REIT | GOOD |
-| 19 | 92 | $37.25 | [Chart](https://www.tradingview.com/chart/?symbol=PBA) | PEMBINA PIPELINE CORPORATION | PBA |
+| 19 | 92 | $37.24 | [Chart](https://www.tradingview.com/chart/?symbol=PBA) | PEMBINA PIPELINE CORPORATION | PBA |
+| 19 | 92 | $22.28 | [Chart](https://www.tradingview.com/chart/?symbol=CURB) | Curbline Properties Corp. | CURB |
 | 13 | 90 | $10.27 | [Chart](https://www.tradingview.com/chart/?symbol=ACIC) | American Coastal Insurance Corporation Common Stock | ACIC |
 | 18 | 90 | $12.87 | [Chart](https://www.tradingview.com/chart/?symbol=CCRN) | Cross Country Healthcare Inc | CCRN |
-| 20 | 88 | $87.50 | [Chart](https://www.tradingview.com/chart/?symbol=BCO) | The Brink's Company | BCO |
+| 19 | 89 | $87.50 | [Chart](https://www.tradingview.com/chart/?symbol=BCO) | The Brink's Company | BCO |
+| 13 | 88 | $41.72 | [Chart](https://www.tradingview.com/chart/?symbol=BILL) | BILL Holdings, Inc. | BILL |
 | 22 | 88 | $44.48 | [Chart](https://www.tradingview.com/chart/?symbol=EPI) | WisdomTree India Earnings Fund ETF | EPI |
-| 15 | 87 | $41.87 | [Chart](https://www.tradingview.com/chart/?symbol=BILL) | BILL Holdings, Inc. | BILL |
-| 16 | 87 | $98.97 | [Chart](https://www.tradingview.com/chart/?symbol=AFL) | Aflac Inc. | AFL |
-| 29 | 87 | $16.69 | [Chart](https://www.tradingview.com/chart/?symbol=SVOL) | Simplify Volatility Premium ETF | SVOL |
-| 21 | 86 | $86.74 | [Chart](https://www.tradingview.com/chart/?symbol=BIDU) | Baidu, Inc. | BIDU |
-| 22 | 86 | $35.84 | [Chart](https://www.tradingview.com/chart/?symbol=VNO) | Vornado Realty Trust | VNO |
+| 16 | 87 | $99.25 | [Chart](https://www.tradingview.com/chart/?symbol=AFL) | Aflac Inc. | AFL |
+| 19 | 87 | $86.47 | [Chart](https://www.tradingview.com/chart/?symbol=BIDU) | Baidu, Inc. | BIDU |
+| 23 | 86 | $12.56 | [Chart](https://www.tradingview.com/chart/?symbol=ZYME) | Zymeworks Inc. | ZYME |
 | 19 | 85 | $12.12 | [Chart](https://www.tradingview.com/chart/?symbol=WSR) | Whitestone REIT | WSR |
-| 23 | 85 | $94.34 | [Chart](https://www.tradingview.com/chart/?symbol=IRM) | Iron Mountain Inc. | IRM |
-| 24 | 85 | $12.58 | [Chart](https://www.tradingview.com/chart/?symbol=ZYME) | Zymeworks Inc. | ZYME |
-| 32 | 84 | $11.88 | [Chart](https://www.tradingview.com/chart/?symbol=M) | Macy's Inc. | M |
-| 18 | 83 | $60.13 | [Chart](https://www.tradingview.com/chart/?symbol=UL) | Unilever plc | UL |
-| 19 | 83 | $10.22 | [Chart](https://www.tradingview.com/chart/?symbol=BRKL) | Brookline Bancorp Inc | BRKL |
-| 27 | 83 | $40.60 | [Chart](https://www.tradingview.com/chart/?symbol=APOG) | Apogee Enterprises Inc | APOG |
-| 25 | 82 | $13.15 | [Chart](https://www.tradingview.com/chart/?symbol=OCSL) | Oaktree Specialty Lending Corporation | OCSL |
-| 22 | 81 | $12.09 | [Chart](https://www.tradingview.com/chart/?symbol=NU) | Nu Holdings Ltd. | NU |
-| 21 | 80 | $25.05 | [Chart](https://www.tradingview.com/chart/?symbol=WKC) | World Kinect Corporation | WKC |
-| 24 | 79 | $31.79 | [Chart](https://www.tradingview.com/chart/?symbol=DAR) | DARLING INGREDIENTS INC. | DAR |
-| 27 | 77 | $56.30 | [Chart](https://www.tradingview.com/chart/?symbol=USRT) | iShares Core U.S. REIT ETF | USRT |
-| 29 | 77 | $23.29 | [Chart](https://www.tradingview.com/chart/?symbol=IBTF) | iShares iBonds Dec 2025 Term Treasury ETF | IBTF |
-| 33 | 76 | $20.91 | [Chart](https://www.tradingview.com/chart/?symbol=BKLN) | Invesco Senior Loan ETF | BKLN |
+| 23 | 84 | $36.16 | [Chart](https://www.tradingview.com/chart/?symbol=VNO) | Vornado Realty Trust | VNO |
+| 24 | 84 | $95.38 | [Chart](https://www.tradingview.com/chart/?symbol=IRM) | Iron Mountain Inc. | IRM |
+| 26 | 84 | $40.60 | [Chart](https://www.tradingview.com/chart/?symbol=APOG) | Apogee Enterprises Inc | APOG |
+| 31 | 84 | $16.76 | [Chart](https://www.tradingview.com/chart/?symbol=SVOL) | Simplify Volatility Premium ETF | SVOL |
+| 19 | 83 | $10.27 | [Chart](https://www.tradingview.com/chart/?symbol=BRKL) | Brookline Bancorp Inc | BRKL |
+| 18 | 82 | $60.22 | [Chart](https://www.tradingview.com/chart/?symbol=UL) | Unilever plc | UL |
+| 35 | 81 | $11.98 | [Chart](https://www.tradingview.com/chart/?symbol=M) | Macy's Inc. | M |
+| 22 | 80 | $12.12 | [Chart](https://www.tradingview.com/chart/?symbol=NU) | Nu Holdings Ltd. | NU |
+| 24 | 78 | $31.81 | [Chart](https://www.tradingview.com/chart/?symbol=DAR) | DARLING INGREDIENTS INC. | DAR |
+| 28 | 77 | $56.73 | [Chart](https://www.tradingview.com/chart/?symbol=USRT) | iShares Core U.S. REIT ETF | USRT |
+| 29 | 76 | $23.30 | [Chart](https://www.tradingview.com/chart/?symbol=IBTF) | iShares iBonds Dec 2025 Term Treasury ETF | IBTF |
+| 38 | 76 | $24.07 | [Chart](https://www.tradingview.com/chart/?symbol=FLBL) | Franklin Senior Loan ETF | FLBL |
 | 30 | 75 | $59.91 | [Chart](https://www.tradingview.com/chart/?symbol=FTSM) | First Trust Enhanced Short Maturity ETF | FTSM |
-| 39 | 75 | $24.08 | [Chart](https://www.tradingview.com/chart/?symbol=FLBL) | Franklin Senior Loan ETF | FLBL |
-| 29 | 73 | $22.86 | [Chart](https://www.tradingview.com/chart/?symbol=IBTG) | iShares iBonds Dec 2026 Term Treasury ETF | IBTG |
-| 31 | 73 | $30.73 | [Chart](https://www.tradingview.com/chart/?symbol=FLRN) | SPDR Bloomberg Investment Grade Floating Rate ETF | FLRN |
-| 32 | 73 | $18.95 | [Chart](https://www.tradingview.com/chart/?symbol=KRNT) | Kornit Digital Ltd. | KRNT |
+| 31 | 74 | $18.95 | [Chart](https://www.tradingview.com/chart/?symbol=KRNT) | Kornit Digital Ltd. | KRNT |
+| 28 | 73 | $22.85 | [Chart](https://www.tradingview.com/chart/?symbol=IBTG) | iShares iBonds Dec 2026 Term Treasury ETF | IBTG |
+| 31 | 72 | $30.73 | [Chart](https://www.tradingview.com/chart/?symbol=FLRN) | SPDR Bloomberg Investment Grade Floating Rate ETF | FLRN |
+| 39 | 66 | $168.78 | [Chart](https://www.tradingview.com/chart/?symbol=CDW) | CDW Corporation | CDW |
 
 ## **Methodology**
 
